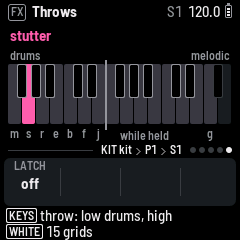
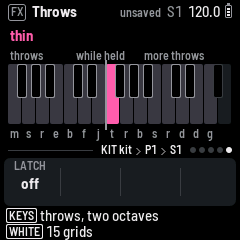
The sound browser: PRESETS on a drum's EDIT page lists Hortator's sounds by engine, ALGORITHM the next engine, HOME closes it. The manual says the throws, the colours, the browser

diff --git a/app/pages.c b/app/pages.c
@@ -694,6 +694,7 @@ static step_t *chord_step(int t, int i)              /* chord mode's held cell i
     return &pats.pat[is_seqt(t) ? t : 0][ui.chord_pat % NPATT].st[(ui.chord_bar * 16 + i) % NSTEP];
 }
 static int home_held(void) { return ui.btn >> B_HOME & 1u; }
+static uint8_t sbrowse;                              /* WARP-8: the sound browser is open (draw_browse, below) */
 static int glo_held(void) { return ui.btn >> B_GLO & 1u; }   /* WARP-8: GLO held, the keys mute (ui.c key_down) */
 /* REC held: its knobs are the record settings while stopped and on Steps and Bar; on a sound page while playing,
  * the page's own, recorded as they turn (a punch-in of motion, as the keys punch in notes) */
@@ -2439,6 +2440,10 @@ static void page_footer(char *t)
         s_cat(t, "KNOBS record motion|KEYS record notes");
         return;
     }
+    if (sbrowse && !lst.open && kit_ui() && (ui.page == P_ENGINE || ui.page == P_SUB)) {
+        s_cat(t, "HOME back|KEYS play");
+        return;
+    }
     if (ui.card) {
         s_cat(t, "let go: nothing changes");
         return;
@@ -2604,6 +2609,10 @@ static void enc_line(char *t)
         return;
     if (glo_held()) {
         s_cat(t, proj.rsv[3] & MUTES_AT_BAR ? "KNOB 1 mutes: at the bar" : "KNOB 1 mutes: at once");
+        return;
+    }
+    if (sbrowse && kit_ui() && (ui.page == P_ENGINE || ui.page == P_SUB)) {
+        s_cat(t, "PRESET sound|ALGO engine");
         return;
     }
     if (home_held()) {
@@ -3002,6 +3011,59 @@ static void proj_slot_text(int slot, char *t)     /* "Proj 2", "Proj 3 (open)", 
 static void dsound_label(int i, char *t)
 {
     s_cat(s_cat(s_cat(t, HPRESET[i % NHPRESET].name), " "), DM_NAME[DM_HORT0 + HPRESET[i % NHPRESET].model % NHM]);
+}
+/* WARP-8: the sound browser. PRESETS on a drum's EDIT pages opens it: Hortator's sounds in the order of their engines
+ * (models), each put on the drum and heard as PRESETS turns to it; ALGORITHM jumps to the next engine's first sound;
+ * HOME (or SEL) closes it */
+static uint8_t sbrowse;
+static int hp_engine(int i, int d)                  /* the first sound of the next engine with any (d < 0: the one before) */
+{
+    int m = HPRESET[i % NHPRESET].model;
+    for (int n = 1; n <= NHM; n++) {
+        int mm = ((m + d * n) % NHM + NHM) % NHM;
+        for (int j = 0; j < NHPRESET; j++)
+            if (HPRESET[j].model == mm)
+                return j;
+    }
+    return i % NHPRESET;
+}
+static int hp_step(int i, int d)                    /* the sound after i (d < 0: before) in that order */
+{
+    int m, j;
+    i %= NHPRESET;
+    m = HPRESET[i].model;
+    for (j = i + d; j >= 0 && j < NHPRESET; j += d)
+        if (HPRESET[j].model == m)
+            return j;
+    j = hp_engine(i, d);
+    if (d < 0)                                       /* (the engine before: its last sound) */
+        for (int k = j; k < NHPRESET; k++)
+            if (HPRESET[k].model == HPRESET[j].model)
+                j = k;
+    return j;
+}
+static int begin_main(uint32_t h);
+static void draw_browse(void)
+{
+    int cur = ui.pick_dsound % NHPRESET, row[9], i;
+    if (!begin_main(hash_u(hash_u(2166136261u, 0xB5u), (uint32_t)cur | (uint32_t)ui.dsound << 8)))
+        return;
+    row[4] = cur;
+    for (i = 3; i >= 0; i--)
+        row[i] = hp_step(row[i + 1], -1);
+    for (i = 5; i < 9; i++)
+        row[i] = hp_step(row[i - 1], 1);
+    for (i = 0; i < 9; i++) {
+        int32_t y = 2 + i * 13;
+        int m = HPRESET[row[i]].model % NHM;
+        if (i && HPRESET[row[i - 1]].model != HPRESET[row[i]].model)   /* an engine's first sound: a rule over it */
+            cv_rect(4, y - 1, 232, 1, K_LINE);
+        if (i == 4)
+            cv_round(4, y, 232, 12, 3, K_NOW);
+        cv_text(10, y - 1, &FONT_XS, HPRESET[row[i]].name, i == 4 ? K_BG : K_TEXT);
+        text_r(230, y - 1, &FONT_XS, DM_NAME[DM_HORT0 + m], i == 4 ? K_BG : K_DIM);
+    }
+    cv_blit(0, MAIN_Y);
 }
 #define NFKITS (1 + NGKITS)
 #define NKITS (NFKITS + NUSER_KITS)
@@ -6592,6 +6654,10 @@ static void draw_page(void)
     }
     if (layer_map()) {
         draw_layer(layer_map() == 1);
+        return;
+    }
+    if (sbrowse && kit_ui() && (ui.page == P_ENGINE || ui.page == P_SUB)) {   /* WARP-8: a drum's sounds, browsed */
+        draw_browse();
         return;
     }
     switch (ui.page) {

diff --git a/app/ui.c b/app/ui.c
@@ -2003,6 +2003,7 @@ static void page_button(int b)
                                                   * played last, as Mix's FX strips do; each track's weave is its ARP's) */
     if ((b == B_ENV || b == B_LFO) && is_midi(sel_trk()))
         say_no(b == B_ENV ? "NO ENVELOPE" : "NO LFO", "on a MIDI track");
+    sbrowse = 0;
     for (uint32_t i = 0; i < NPAGE_BTN; i++)
         if (PAGE_BTN[i].btn == b) {
             ui.page = (uint8_t)(b == B_HOME && ui.page == P_ARRANGE ? P_SONG : grp_page((int)i, 0));
@@ -2016,6 +2017,7 @@ static void page_button(int b)
 }
 static void page_turn(int d)
 {
+    sbrowse = 0;
     int g = page_group(ui.page), n = group_n(g), i = grp_index(ui.page);
     ui.page = (uint8_t)grp_page(g, ((i < 0 ? 0 : i + d) % n + n) % n);
     ui.touched = -1;
@@ -2045,6 +2047,8 @@ static void button_up(int b)
     case B_SEL:
         if (ui.ask)
             ask_end(1);
+        else if (sbrowse && !lst.open)
+            sbrowse = 0;
         else if (lst.open)
             list_sel();
         else if (ui.page == P_GEN && is_drum(sel_trk()))   /* Generate: SEL writes what the grid shows */
@@ -2061,6 +2065,8 @@ static void button_up(int b)
             ask_end(0);
         else if (lst.open)
             lst.open = 0;
+        else if (sbrowse)                        /* (WARP-8: the sound browser closes; the sound stays) */
+            sbrowse = 0;
         else
             page_button(B_HOME);
         break;
@@ -2239,26 +2245,32 @@ static void kit_knob(int d)
         engine_key(trk, ui.dsound % DL_NSOUND + 1, 0, 0);
     }
 }
-/* and the next of Hortator's sounds of the drum shown's type (its model's; a model of LOOM-8's: the type picked
- * last), on the drum and played */
-static void sound_knob(int d)
+/* WARP-8: the sound browser (pages.c draw_browse): sound i on the drum shown, and heard */
+static void browse_go(int i)
 {
-    int trk = sel_trk(), key = ui.dsound % DL_NSOUND, m = proj.trk[trk].par[TP_DRUM(key, DP_MODEL)] % NDM, ty, lo, n, at;
+    int trk = sel_trk(), key = ui.dsound % DL_NSOUND;
     if (!is_drum(trk))
         return;
-    ty = DM_ISHORT(m) ? HPT_OF[m - DM_HORT0] : ui.pick_dtype % NHPT;
-    lo = HPT_START[ty];
-    n = HPT_START[ty + 1] - lo;
-    at = ui.pick_dsound >= lo && ui.pick_dsound < lo + n ? ui.pick_dsound - lo : -1;
-    if (at < 0)                                  /* (another type's sound was picked last: this type's first, or last) */
-        at = d > 0 ? 0 : n - 1;
-    else
-        at = ((at + d) % n + n) % n;
-    ui.pick_dtype = (uint8_t)ty;
-    ui.pick_dsound = (uint8_t)(lo + at);
+    ui.pick_dsound = (uint8_t)(i % NHPRESET);
     act_drum_sound(ui.pick_dsound);
     engine_key(trk, key + 1, 1, 127);
     engine_key(trk, key + 1, 0, 0);
+}
+/* PRESETS on a drum's EDIT pages: the browser opens on the drum's own engine (its first sound, if the sound picked
+ * last is another engine's), then each turn is the next sound */
+static void sound_knob(int d)
+{
+    int trk = sel_trk(), m = proj.trk[trk].par[TP_DRUM(ui.dsound % DL_NSOUND, DP_MODEL)] % NDM, cur = ui.pick_dsound % NHPRESET;
+    if (!sbrowse && DM_ISHORT(m) && HPRESET[cur].model != m - DM_HORT0) {
+        for (int j = 0; j < NHPRESET; j++)
+            if (HPRESET[j].model == m - DM_HORT0) {
+                sbrowse = 1;
+                browse_go(j);
+                return;
+            }
+    }
+    sbrowse = 1;
+    browse_go(hp_step(cur, d));
 }
 static void arrange_knob(int k, int32_t e)
 {
@@ -4522,7 +4534,9 @@ static void input(void)
             page_turn(e > 0 ? 1 : -1);
     }
     if ((e = ev[EN_ALGO]) != 0) {
-        if (lst.open)
+        if (sbrowse && !lst.open && kit_ui() && (ui.page == P_ENGINE || ui.page == P_SUB))
+            browse_go(hp_engine(ui.pick_dsound, e > 0 ? 1 : -1));   /* (WARP-8, the sound browser: the next engine) */
+        else if (lst.open)
             list_change(e);
         else if (0) {                             /* (WARP-8: a track's engine is its own: none to pick)
                                                    * EDIT held, ALGORITHM picked LOOM-8's */

diff --git a/docs/WARP-8.md b/docs/WARP-8.md
@@ -16,6 +16,9 @@ With the kit selected:
 - **Hold something and the knobs are its.** A step held: the step's. A drum held: its lane's. A button held: that
   button's keys and knobs, drawn on the screen while you hold.
 
+**Each drum has a colour of its own**, the same on every page: its row on HOME, its bars on Steps, its pad on EDIT,
+its key in the mutes. The page's own colour is the picked drum's.
+
 This holds on every page of the kit. The exceptions are the Throws page, the shared LFO page (white keys pick the
 sound it moves), the master and setup pages (the keys play), and the Song page (white keys add scenes to the song).
 
@@ -119,6 +122,22 @@ HOME + REC takes it back.
 
 **RANDOM SOUND** in the drum's list (SEL on EDIT) puts another sound of its type on it.
 
+### The sound browser
+
+<img src="img/warp-browse.png" width="240" alt="The sound browser: nine sounds, the one on the drum lit, each with its engine's name at the right, a rule between engines" title="The sound browser">
+
+Turn PRESETS on a drum's EDIT page and a list of the 143 sounds opens, in the order of their engines, each with its
+engine at the right. It opens on the drum's own engine.
+
+| Control | Does |
+|---|---|
+| PRESETS | The next or the last sound: put on the drum and heard at once |
+| ALGORITHM | The first sound of the next engine, or of the one before |
+| HOME, SEL | Close the list. The sound stays on the drum |
+| Keys, knobs | As on the page: play the drum, shape the sound |
+
+HOME + REC takes a sound back.
+
 ## GLO held: mutes and fill
 
 <img src="img/warp-glo-held.png" width="240" alt="GLO held: the keys drawn, the muted drum dark, K S L under the track keys, C and F under clear and fill" title="GLO held">
@@ -152,11 +171,36 @@ HOME held is also LOOM-8's shift: REC undoes, PLAY redoes, ALGORITHM picks the t
 
 <img src="img/warp-fx-held.png" width="240" alt="FX held: the Throws page, stutter lit on its key" title="FX held">
 
-From any page of the kit, hold FX and the keys are the throws, as on the Throws page: mute, stutter, repeat, echo,
-build, floor, jumble on the white keys, warble, pan, octave, chop, ring on the black. The lower octave works on the
-drums. Let go of FX and you are back on your page with nothing left on, unless LATCH is on.
+From any page of the kit, hold FX and the keys are the throws, as on the Throws page. Let go of FX and you are back
+on your page with nothing left on, unless LATCH is on. A tap of FX still opens its pages.
 
-A tap of FX still opens its pages.
+The first octave is LOOM-8's twelve:
+
+| White keys | | Black keys | |
+|---|---|---|---|
+| mute | nothing sounds | warble | a high-pass and a wobble |
+| stutter | the last two sixteenths repeat | pan | the pan swings |
+| repeat | the last beat repeats | octave | an octave up |
+| echo | the stutter, fading | chop | every hit short |
+| build | snares, eighths then sixteenths | ring | every hit long |
+| floor | a kick on the beats, hats between | | |
+| jumble | the first three drums at random | | |
+
+The second octave is twelve more, in place of LOOM-8's melodic throws:
+
+| White keys | | Black keys | |
+|---|---|---|---|
+| thin | only the hits on the eighths | low-pass | the kit's filter closes |
+| roll | the step playing repeats, in sixteenths | delay | every hit all the way to FX I |
+| buzz | the same in thirty-seconds | reverb | every hit all the way to FX II |
+| soft | every hit quiet | hard | every hit at full |
+| rise | each step a semitone higher, to two octaves | crush | the kit through a bit crusher |
+| drop | each step a semitone lower | | |
+| down | an octave down | | |
+
+Both octaves now reach every track. Hortator's reverse, tape stop and freeze are not here: each needs a recording of
+the output to play back, and there is neither the memory nor the flash for one. Drop is the nearest thing to a tape
+stop that drum synthesis can do.
 
 ### GRIDS
 
@@ -185,9 +229,16 @@ With LATCH on, a press turns it on and the next turns it off. X, Y and FILL are 
 | Held step: velocity, length, chance, pitch | Velocity, chance, ratchets, nudge; SELECT for length and pitch |
 | Mix with the kit selected: black keys mute and solo tracks | They pick drums. From another track they are the tracks, as before |
 | Throws: on their page | Also FX held, from anywhere |
+| The second octave: the melodic tracks' throws | Twelve more throws |
+| EDIT: PRESETS steps through the sounds of the drum's type | A list of all the sounds by engine; ALGORITHM jumps engines |
+| A nudge moves the whole step | Knob 4 moves the picked drum alone; OCT the whole step |
+| CLEAR on SEQ empties the pattern; CLEAR SCENE keeps the notes | CLEAR on SEQ is the picked drum's lane; CLEAR SCENE takes its notes |
+| A black key is silent while the pattern plays | It is heard |
+| One colour for the kit | A colour for each drum |
 
 ## Not built
 
 - Chaos, accents and the map's thirty-second notes in GRIDS; GRIDS recorded on the THROW track; the hollow cells
   that would show the map over the written pattern.
+- Reverse, tape stop and freeze as throws (see above).
 - Rolls of one drum, knobs that spring back in the FX layer, kit morph, more than one level of undo, kits as text.
